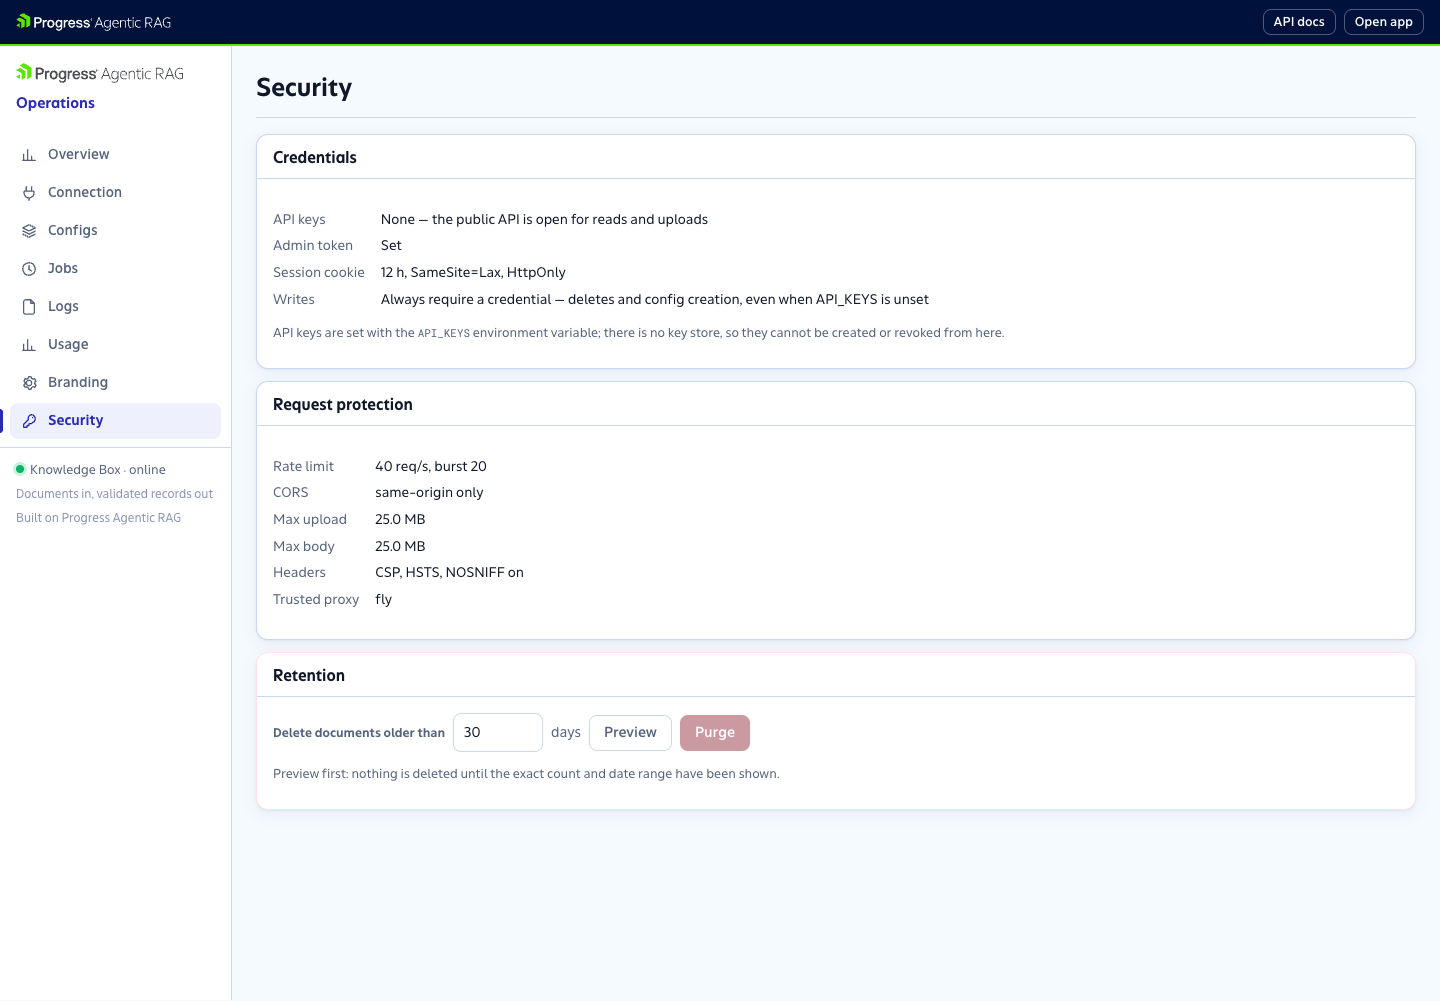
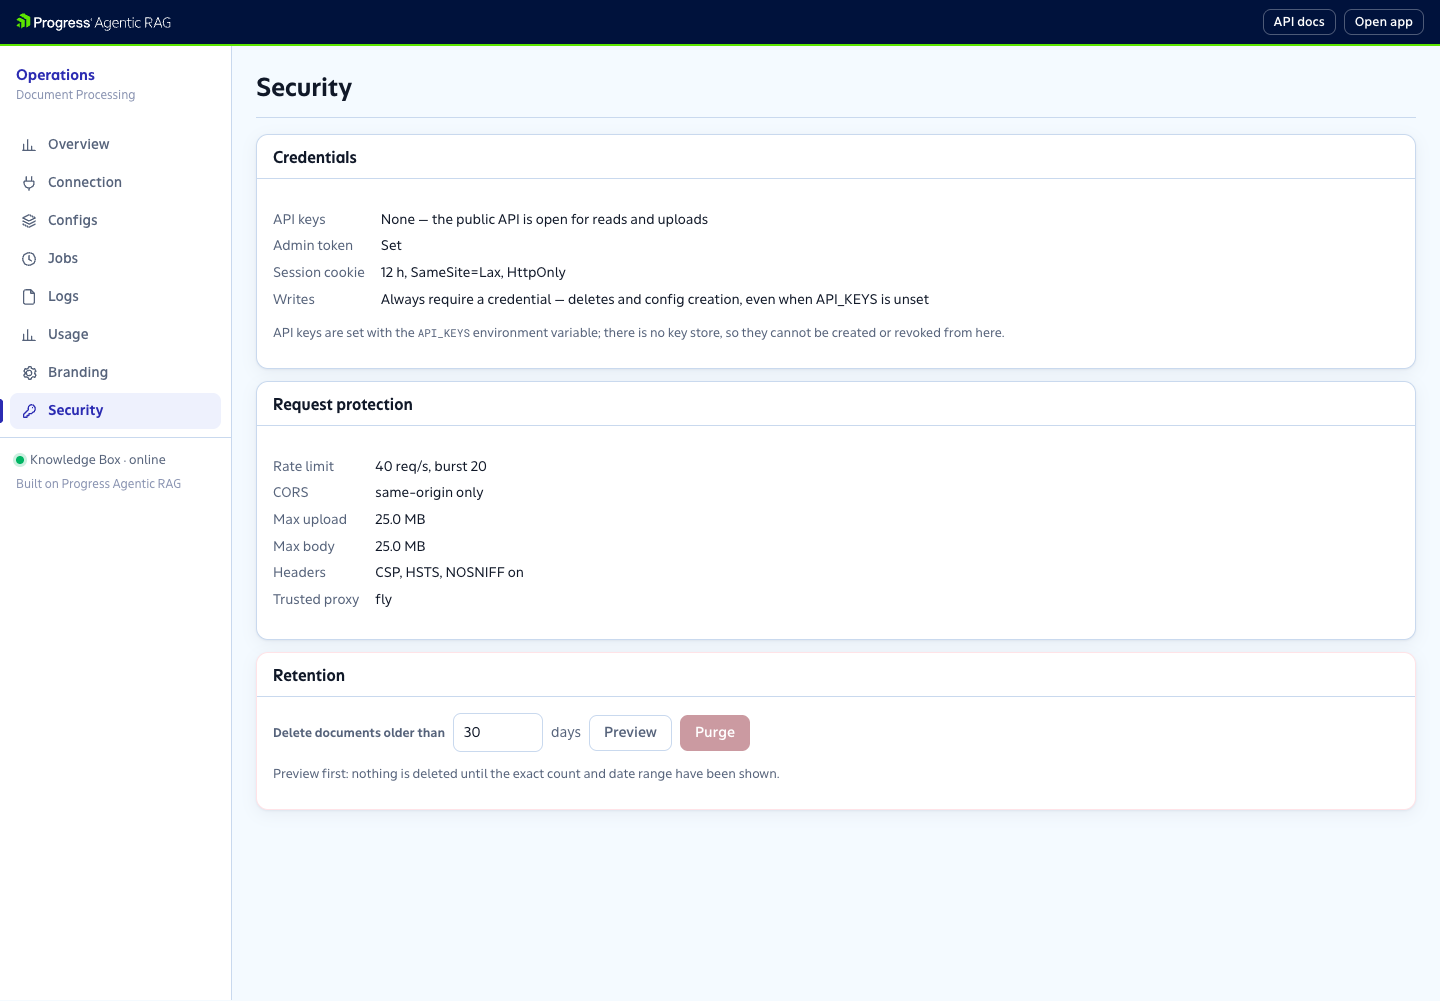
fix(ui): show the Progress wordmark once, in the band
It appeared twice in the top-left corner — in the ink band and again at the head
of the sidebar — which reads as a rendering mistake and crowded out the thing the
sidebar head is for. The head now carries the product's own identity: the name
over its tagline, with a partner's mark above them when BRAND_LOGO_URL is set and
no image at all when it is not. The admin sidebar reads "Operations" over the
product name; the admin sign-in card keeps the wordmark, being a door with no
sidebar behind it.

Pinned by e2e on both apps: exactly one arag-logo image on a signed-in screen,
the sidebar image hidden until a partner logo is configured, that logo appearing
with the partner's name as its alt text when it is, and the band unchanged.
Screenshots re-shot at 1440 px and the showcase re-recorded.

Claude-Session: https://claude.ai/code/session_01QUMEPj4JqUPxBgWoUVwonZ

Changed region(s): [[0.0, 0.0619, 0.125, 0.5265]]

diff --git a/test/e2e/branding.spec.ts b/test/e2e/branding.spec.ts
@@ -30,9 +30,11 @@ test("the default look is Progress-branded, then a partner's branding replaces i
   await page.goto("/#/documents");
   await expect(page.locator("[data-brand-name]")).toHaveText("Document Processing");
   await expect(page.locator("[data-powered-by]")).toBeVisible();
-  // The official wordmarks: white/green on the ink band, grey/green on the light sidebar.
+  // The official wordmark is shown once, white/green on the ink band. The sidebar head is
+  // the product's identity, not a second copy of the platform's.
   await expect(page.locator(".dip-bandmark img")).toHaveAttribute("src", "/brand/arag-logo-alt.svg");
-  await expect(page.locator(".dip-brandmark img")).toHaveAttribute("src", "/brand/arag-logo.svg");
+  await expect(page.locator(".dip-brandmark img")).toBeHidden();
+  expect(await page.locator('img[src*="arag-logo"]').count()).toBe(1);
   // Progress green is a brand colour, not a UI colour: it appears only on the band's rule.
   const rule = await page.evaluate(() => {
     const band = document.querySelector(".dip-app > .arag-band");
@@ -44,6 +46,8 @@ test("the default look is Progress-branded, then a partner's branding replaces i
 
   await expect(page.locator("[data-brand-name]")).toHaveText(BRAND.productName);
   await expect(page.locator("[data-brand-tagline]")).toHaveText(BRAND.tagline);
+  // No BRAND_LOGO_URL in this payload, so the sidebar head still carries no image.
+  await expect(page.locator(".dip-brandmark img")).toBeHidden();
   // The powered-by band and footer credit are hidden when a partner turns them off.
   await expect(page.locator("[data-powered-by]")).toBeHidden();
   await expect(page.locator("[data-powered-by-credit]")).toBeHidden();
@@ -52,6 +56,27 @@ test("the default look is Progress-branded, then a partner's branding replaces i
     getComputedStyle(document.documentElement).getPropertyValue("--arag-brand-600").trim(),
   );
   expect(brandVar).toBe(BRAND.primaryColor);
+});
+
+test("a partner logo takes the sidebar head's image slot", async ({ page }) => {
+  await page.goto("/#/documents");
+  await expect(page.locator(".dip-brandmark img")).toBeHidden();
+  // Any served asset stands in for a partner's; what matters is that it appears in the
+  // sidebar head, beside the product name, and that the band keeps the Progress wordmark.
+  await page.evaluate((b) => window.dipApplyBranding(b), {
+    ...BRAND,
+    poweredBy: true,
+    logoUrl: "/brand/arag-logo.svg",
+  });
+  await expect(page.locator(".dip-brandmark img")).toBeVisible();
+  await expect(page.locator(".dip-brandmark img")).toHaveAttribute("src", "/brand/arag-logo.svg");
+  await expect(page.locator(".dip-brandmark img")).toHaveAttribute("alt", BRAND.productName);
+  await expect(page.locator(".dip-bandmark img")).toHaveAttribute("src", "/brand/arag-logo-alt.svg");
+});
+
+test("the admin sign-in card keeps the Progress wordmark", async ({ page }) => {
+  await page.goto("/admin/");
+  await expect(page.locator(".dip-signin__card img")).toHaveAttribute("src", "/brand/arag-logo.svg");
 });
 
 test("status and verification colours are never branded", async ({ page }) => {

diff --git a/public/lib/core.js b/public/lib/core.js
@@ -338,8 +338,11 @@ export function renderShell(root, opts) {
         <aside class="dip-sidebar" id="sidebar">
           <a class="dip-brandmark" href="${esc(nav[0].href)}">
             <span class="dip-brandmark__stack">
-              <img data-brand-logo src="/brand/arag-logo.svg" alt="Progress Agentic RAG" />
+              <!-- The Progress wordmark lives in the band, once. The sidebar head carries the
+                   product's own identity, and a partner's mark when BRAND_LOGO_URL is set. -->
+              <img data-brand-logo alt="" hidden />
               <span class="dip-brandmark__name" data-brand-name>${esc(productName)}</span>
+              <span class="dip-brandmark__tagline" data-brand-tagline${tagline ? "" : " hidden"}>${esc(tagline)}</span>
             </span>
           </a>
           <nav class="dip-sidenav" aria-label="${esc(ariaLabel)}">
@@ -354,7 +357,6 @@ export function renderShell(root, opts) {
           </nav>
           <div class="dip-sidebar__foot">
             <arag-status endpoint="/readyz" label="Knowledge Box"></arag-status>
-            <span data-brand-tagline>${esc(tagline)}</span>
             <span data-brand-footer data-powered-by-credit>Built on Progress Agentic RAG</span>
           </div>
         </aside>
@@ -403,14 +405,25 @@ export function applyShellBranding(b) {
   const name = document.querySelector("[data-brand-name]");
   if (name && b.productName) name.textContent = b.productName;
   const tag = document.querySelector("[data-brand-tagline]");
-  if (tag) tag.textContent = b.tagline || "";
+  if (tag) {
+    tag.textContent = b.tagline || "";
+    tag.hidden = !b.tagline;
+  }
+  // A partner mark replaces nothing — it *is* the sidebar head's image, which is absent
+  // otherwise. A broken one hides itself rather than leaving a torn icon above the name.
   const logo = document.querySelector("[data-brand-logo]");
-  if (logo && b.logoUrl) {
-    logo.src = b.logoUrl;
-    logo.alt = b.productName || "";
-    logo.addEventListener("error", () => {
+  if (logo) {
+    if (b.logoUrl) {
+      logo.addEventListener("error", () => {
+        logo.hidden = true;
+      });
+      logo.src = b.logoUrl;
+      logo.alt = b.productName || "";
+      logo.hidden = false;
+    } else {
+      logo.removeAttribute("src");
       logo.hidden = true;
-    });
+    }
   }
   if (b.footerText) {
     const foot = document.querySelector("[data-brand-footer]");

diff --git a/test/e2e/admin.spec.ts b/test/e2e/admin.spec.ts
@@ -10,6 +10,7 @@ test("admin: the sign-in is a door, and a wrong token says so plainly", async ({
   await expect(page.locator(".dip-signin")).toBeVisible();
   // No navigation before sign-in: a nav the visitor cannot use is noise.
   await expect(page.locator(".dip-sidenav")).toHaveCount(0);
+  // The sign-in card is a door into a different product, so it keeps the wordmark.
   await expect(page.locator(".dip-signin__card img")).toHaveAttribute("src", "/brand/arag-logo.svg");
 
   await page.fill("#token", "nope");
@@ -21,6 +22,11 @@ test("admin: the sign-in is a door, and a wrong token says so plainly", async ({
   await page.press("#token", "Enter");
   await expect(page.locator(".dip-sidenav")).toBeVisible({ timeout: 20_000 });
   await expect(page.locator(".dip-sidenav a")).toHaveCount(8);
+  // Signed in, the wordmark is in the band only; the sidebar head is the operator identity.
+  await expect(page.locator(".dip-brandmark img")).toBeHidden();
+  await expect(page.locator(".dip-brandmark__name")).toHaveText("Operations");
+  await expect(page.locator(".dip-brandmark__tagline")).toHaveText("Document Processing");
+  expect(await page.locator('img[src*="arag-logo"]').count()).toBe(1);
 });
 
 test("admin: overview, connection and configs are an operator product", async ({ page }) => {

diff --git a/test/e2e/app.spec.ts b/test/e2e/app.spec.ts
@@ -15,9 +15,13 @@ test("first run offers the guided sample and is honest about the mock Knowledge 
   await expect(page.locator(".arag-alert.warn")).toContainText("mock Knowledge Box");
   await expect(page.locator(".dip-sidenav a")).toHaveCount(5);
   await expect(page.locator('[data-nav="documents"]')).toContainText("Documents");
-  // The Progress wordmark is the default, non-white-labelled brand.
+  // The Progress wordmark appears once, in the band. The sidebar head carries the product's
+  // own identity — name and tagline — and no image unless a partner logo is configured.
   await expect(page.locator(".dip-bandmark img")).toHaveAttribute("src", "/brand/arag-logo-alt.svg");
-  await expect(page.locator(".dip-brandmark img")).toHaveAttribute("src", "/brand/arag-logo.svg");
+  await expect(page.locator(".dip-brandmark img")).toBeHidden();
+  await expect(page.locator(".dip-brandmark__name")).toHaveText("Document Processing");
+  await expect(page.locator(".dip-brandmark__tagline")).toHaveText("Documents in, validated records out");
+  expect(await page.locator('img[src*="arag-logo"]').count()).toBe(1);
 });
 
 test("the guided sample processes a document and lands in the queue", async ({ page }) => {

diff --git a/public/ui-ext.css b/public/ui-ext.css
@@ -131,11 +131,27 @@
   white-space: nowrap;
   max-width: 190px;
 }
+/* The tagline wraps rather than truncating: "Documents in, validated records out" says
+   what the product is, and half of it says nothing. Two lines, then ellipsis. */
+.dip-brandmark__tagline {
+  font-size: 0.75rem;
+  line-height: 1.35;
+  color: var(--arag-text-subtle);
+  max-width: 190px;
+  display: -webkit-box;
+  -webkit-line-clamp: 2;
+  -webkit-box-orient: vertical;
+  overflow: hidden;
+}
 .dip-brandmark__stack {
   display: flex;
   flex-direction: column;
-  gap: 6px;
+  gap: 2px;
   align-items: flex-start;
+}
+/* The partner mark, when there is one, needs air between it and the product name. */
+.dip-brandmark__stack img:not([hidden]) + .dip-brandmark__name {
+  margin-top: 6px;
 }
 
 /* ── sidebar nav ───────────────────────────────────────────────────────────── */

diff --git a/admin/admin.js b/admin/admin.js
@@ -116,7 +116,15 @@ function mountShell() {
       { label: "Open app", href: "/" },
     ],
   });
-  if (window.__branding) applyShellBranding({ ...window.__branding, productName: "Operations" });
+  // The admin head reads "Operations" over whatever the product is called, so a partner
+  // sees their own product name under the operator label rather than the platform tagline.
+  if (window.__branding) {
+    applyShellBranding({
+      ...window.__branding,
+      productName: "Operations",
+      tagline: window.__branding.productName,
+    });
+  }
 }
 
 /** Any 401 anywhere means the cookie expired: return to the door, saying so. */

diff --git a/DECISIONS.md b/DECISIONS.md
@@ -47,3 +47,4 @@ Product-level decisions. Workspace-wide decisions (D-01 … D-18) live in the pa
 | DP-40 | 2026-09-12 | **Settings is credential-free (`GET /api/v1/settings`), and the extract-strategy *id* stays behind `ADMIN_TOKEN`.** | "What is this connected to, and what will it accept from me?" are questions a user of the product has to be able to answer for themselves — the upload drawer's accepted types and size limit come from the API rather than from hard-coded markup. Which visual-LLM strategy a deployment runs is an operator's business. | Settings publishes a boolean (`visualExtraction`) and a label; `/api/v1/admin/config` keeps the id. A contract test asserts the settings payload contains no token and no strategy id. |
 | DP-41 | 2026-09-12 | **`POST /api/v1/documents/{id}/ask` keeps anonymous access but gets its own, tighter rate-limit bucket** (`rps: 1, burst: 10`) rather than `requireWriter`. | Every ask is a real generative call against the Knowledge Box, so it costs money in a way a read does not — but the guided sample, the quickstart and the recorded walkthrough all ask a question without a credential, and putting it behind a credential would make the product's most persuasive moment unreachable to someone evaluating it. The QA reviewer was right that it needed *something*. | A per-route bucket (platform v0.1.4), the same mechanism the SSE route uses, so the shared public limit is unaffected. An anonymous caller can try the product; they cannot use it as an unbounded model proxy. Stated in the endpoint's description in `openapi.ts`. |
 | DP-42 | 2026-09-12 | **`doc_type` is a repeatable query parameter** (`?doc_type=invoice&doc_type=receipt`), declared in the spec as an array. | The route already accepted repeated values while the spec documented a single string — the contract did not describe what the code did, and the QA review caught it. Repeating is the shape the platform's query validator already supports (`props[k]?.type === "array"`), so a single value still validates. | One code path instead of two, covered by a contract test for both the single and the repeated form, plus a 400 for an unknown type. The Documents filter is still a single select; making it multi-select is now a UI change alone. |
+| DP-43 | 2026-09-12 | **The Progress Agentic RAG wordmark appears once, in the brand band.** The sidebar head carries the product's own identity — name over tagline — with a partner's mark above it when `BRAND_LOGO_URL` is set, and no image at all when it is not. The admin sign-in card keeps the wordmark. | Two copies of the same wordmark stacked in the top-left corner read as a rendering mistake, and they crowded out the thing the sidebar is actually for: saying which product this is. The sign-in card is the exception because it is a door with no sidebar behind it. | A partner who sets a logo gets it where they expect it, above their product name, without competing with the platform mark one line above. Pinned by e2e assertions on both apps: exactly one `arag-logo` image on a signed-in screen, the sidebar image hidden until a logo is configured, and the band's wordmark unchanged. |

diff --git a/docs/developer/white-label.md b/docs/developer/white-label.md
@@ -9,9 +9,9 @@ effective branding from `GET /api/v1/branding` before they paint.
 
 | Variable | Default | What it changes |
 |---|---|---|
-| `BRAND_PRODUCT_NAME` | `Document Processing` | Header wordmark, page titles |
-| `BRAND_TAGLINE` | `Documents in, validated records out` | Small line beside the name |
-| `BRAND_LOGO_URL` | *(none — wordmark only)* | Logo image in the header |
+| `BRAND_PRODUCT_NAME` | `Document Processing` | The name at the top of the sidebar, and page titles |
+| `BRAND_TAGLINE` | `Documents in, validated records out` | Small line under the name |
+| `BRAND_LOGO_URL` | *(none — the name alone)* | Your mark above the name at the top of the sidebar, and on the admin sign-in card. The Progress Agentic RAG wordmark stays in the top band (see `BRAND_POWERED_BY`) |
 | `BRAND_PRIMARY_COLOR` | platform brand colour | `--arag-brand-500/600/700` CSS variables |
 | `BRAND_ACCENT_COLOR` | platform accent | `--arag-accent-400/500` |
 | `BRAND_POWERED_BY` | `1` | `0` hides the "Built on Progress Agentic RAG" band and footer credit |
